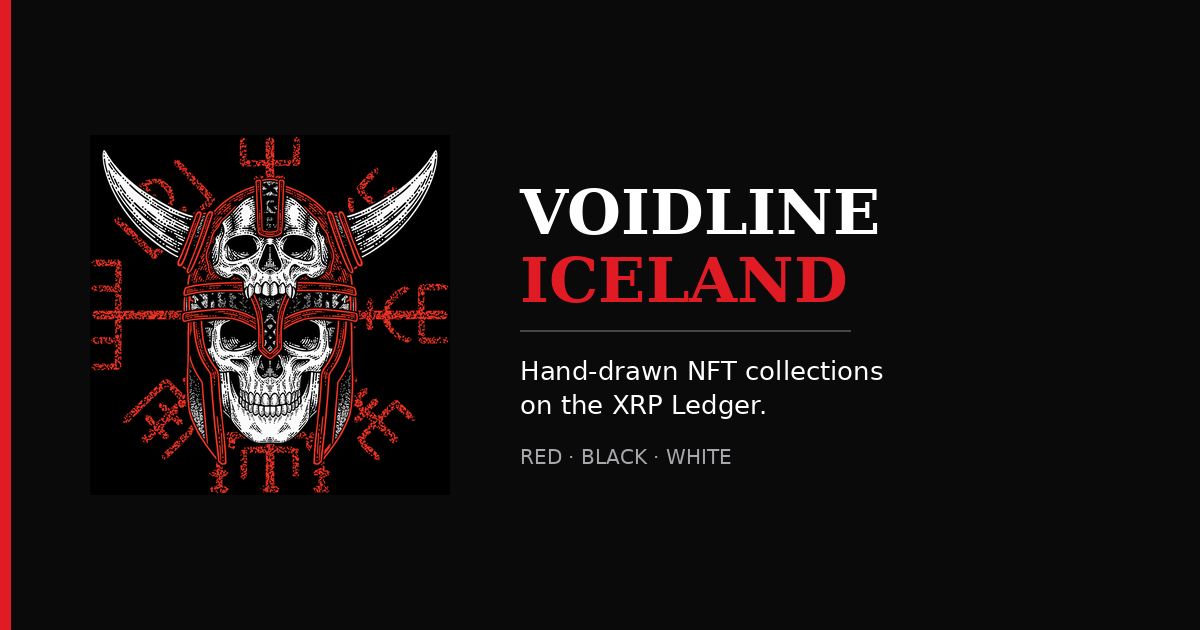
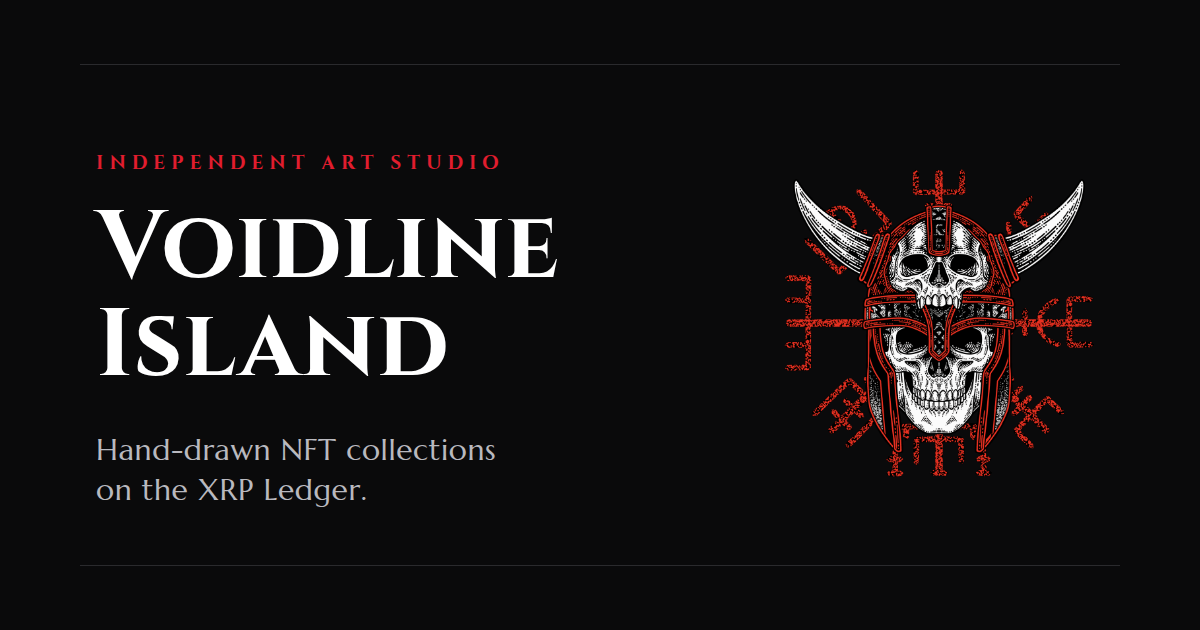
og: gambar pratinjau diperbarui — Iceland -> Island
public/og-image.png masih versi 25 Okt (sehari sebelum commit rename
54e34a0). Meta di index.html sudah benar, tetapi aplikasi chat membaca
piksel di dalam gambar — jadi pratinjau tetap menampilkan 'Iceland'.

- public/og-image.png dibuat ulang: 1200x630, latar #0a0a0b,
  kicker merah, judul Cinzel 700 ('Voidline Island'), sub Marcellus,
  logo GIF di kanan. Tidak ada lagi tulisan Iceland.
- scripts/buat-og.py: sumber yang bisa dijalankan ulang agar kartu ini
  tidak tertinggal lagi saat brand/teks berubah. Render headless Chrome,
  font diunduh ke ~/.fonts. Output deterministik (byte identik).

Catatan: cache pratinjau WhatsApp/Discord/Telegram perlu di-purge
terpisah; gambar baru terlihat setelah cache platform kedaluwarsa.

Changed region(s): [[0.0617, 0.2111, 0.925, 0.8143], [0.0, 0.0, 0.0308, 1.0], [0.555, 0.6937, 0.6167, 0.754]]

diff --git a/scripts/buat-og.py b/scripts/buat-og.py
@@ -1,0 +1,197 @@
+#!/usr/bin/env python3
+"""Buat public/og-image.png (1200×630) — kartu pratinjau tautan.
+
+Kenapa harus lewat skrip: judul dan deskripsi di pratinjau aplikasi chat
+(WhatsApp, Discord, Telegram) TIDAK diambil dari HTML React — mereka hanya
+membaca <meta> di index.html DAN piksel di dalam gambar ini. Saat brand
+berganti nama, gambar inilah yang paling mudah tertinggal versi lama.
+
+Alur: HTML kecil ditulis ke berkas sementara, dirender headless Chrome,
+lalu hasilnya ditulis ke public/og-image.png. Vite menyalinnya ke dist/.
+
+Pemakaian:
+    python3 scripts/buat-og.py
+
+Prasyarat:
+    - google-chrome (atau CHROME_PATH)
+    - koneksi internet sekali untuk mengunduh font Cinzel & Marcellus
+      (disimpan di ~/.fonts supaya render berikutnya tetap konsisten)
+
+Jangan mengedit og-image.png secara manual: jalankan skrip ini, lalu commit
+hasilnya. Isi teks ada di konstanta di bawah.
+"""
+
+from __future__ import annotations
+
+import os
+import shutil
+import subprocess
+import sys
+import tempfile
+import urllib.request
+from pathlib import Path
+
+# ── Isi kartu ────────────────────────────────────────────────────────────────
+KICKER = "INDEPENDENT ART STUDIO"
+JUDUL_BARIS_1 = "Voidline"
+JUDUL_BARIS_2 = "Island"
+SUB_BARIS_1 = "Hand-drawn NFT collections"
+SUB_BARIS_2 = "on the XRP Ledger."
+
+# ── Rupa ─────────────────────────────────────────────────────────────────────
+LATAR = "#0a0a0b"
+PUTIH = "#ffffff"
+ABU = "#b9b9bf"
+MERAH = "#e11d2e"
+GARIS = "#2a2a2d"
+
+LEBAR, TINGGI = 1200, 630
+
+AKAR = Path(__file__).resolve().parent.parent
+KELUARAN = AKAR / "public" / "og-image.png"
+LOGO = AKAR / "src" / "assets" / "Logo.gif"
+
+# Font diunduh sekali, lalu dipasang di fontconfig pengguna.
+FONT = {
+    "cinzel.ttf": "https://fonts.gstatic.com/s/cinzel/v26/8vIU7ww63mVu7gtR-kwKxNvkNOjw-jHgTYo.ttf",
+    "marcellus.ttf": "https://fonts.gstatic.com/s/marcellus/v14/wEO_EBrOk8hQLDvIAF8FUQ.ttf",
+}
+
+TEMPLATE = f"""<!doctype html>
+<html lang="en">
+<head>
+<meta charset="utf-8">
+<style>
+  * {{ margin:0; padding:0; box-sizing:border-box; }}
+  html, body {{ width:{LEBAR}px; height:{TINGGI}px; overflow:hidden; }}
+  body {{ background:{LATAR}; color:{PUTIH}; position:relative; }}
+  .garis {{ position:absolute; left:80px; right:80px; height:1px; background:{GARIS}; }}
+  .atas {{ top:64px; }}
+  .bawah {{ bottom:64px; }}
+  .kiri {{ position:absolute; left:96px; top:150px; }}
+  .kicker {{
+    font-family:'Cinzel', Georgia, serif; font-size:19px; letter-spacing:0.32em;
+    text-transform:uppercase; color:{MERAH}; margin-bottom:24px;
+  }}
+  .judul {{
+    font-family:'Cinzel', Georgia, serif; font-weight:700;
+    font-size:96px; line-height:1.02; letter-spacing:0.01em;
+  }}
+  .sub {{
+    margin-top:34px; font-family:'Marcellus', Georgia, serif;
+    font-size:30px; line-height:1.35; color:{ABU}; letter-spacing:0.02em;
+  }}
+  .kanan {{ position:absolute; right:96px; top:158px; width:330px; }}
+  .kanan img {{ width:100%; display:block; }}
+</style>
+</head>
+<body>
+  <div class="garis atas"></div>
+  <div class="garis bawah"></div>
+  <div class="kiri">
+    <div class="kicker">{KICKER}</div>
+    <div class="judul">{JUDUL_BARIS_1}<br>{JUDUL_BARIS_2}</div>
+    <div class="sub">{SUB_BARIS_1}<br>{SUB_BARIS_2}</div>
+  </div>
+  <div class="kanan"><img src="file://{LOGO}" alt=""></div>
+</body>
+</html>
+"""
+
+
+def chrome() -> str:
+    """Cari peramban headless yang tersedia."""
+    for nama in (
+        os.environ.get("CHROME_PATH"),
+        "google-chrome",
+        "google-chrome-stable",
+        "chromium",
+        "chromium-browser",
+    ):
+        if nama and shutil.which(nama):
+            return shutil.which(nama)
+    sys.exit("google-chrome tidak ditemukan. Pasang Chrome, atau set CHROME_PATH.")
+
+
+def pasang_font() -> None:
+    """Unduh font bila belum ada, lalu daftarkan ke fontconfig."""
+    tujuan = Path.home() / ".fonts"
+    tujuan.mkdir(parents=True, exist_ok=True)
+    baru = False
+
+    for nama, url in FONT.items():
+        berkas = tujuan / nama
+        if berkas.exists():
+            continue
+        print(f"mengunduh {nama} …")
+        try:
+            with urllib.request.urlopen(url, timeout=30) as r:
+                berkas.write_bytes(r.read())
+            baru = True
+        except OSError as e:
+            sys.exit(f"gagal mengunduh {nama}: {e}")
+
+    if baru and shutil.which("fc-cache"):
+        subprocess.run(["fc-cache", "-f", str(tujuan)], check=False)
+
+    if not shutil.which("fc-list"):
+        return
+
+    ada = subprocess.run(
+        ["fc-list"], capture_output=True, text=True, check=False
+    ).stdout.lower()
+    if "cinzel" not in ada or "marcellus" not in ada:
+        sys.exit(
+            "Font Cinzel/Marcellus tidak terbaca fontconfig. "
+            "Salin manual ke ~/.fonts lalu jalankan fc-cache -f."
+        )
+
+
+def render() -> None:
+    """Render HTML sementara → PNG tujuan."""
+    if not LOGO.exists():
+        sys.exit(f"logo tidak ditemukan: {LOGO}")
+
+    with tempfile.TemporaryDirectory() as tmp:
+        html = Path(tmp) / "og.html"
+        png = Path(tmp) / "og.png"
+        html.write_text(TEMPLATE, encoding="utf-8")
+
+        hasil = subprocess.run(
+            [
+                chrome(),
+                "--headless=new",
+                "--disable-gpu",
+                "--no-sandbox",
+                "--hide-scrollbars",
+                "--force-device-scale-factor=1",
+                f"--window-size={LEBAR},{TINGGI}",
+                f"--screenshot={png}",
+                "--virtual-time-budget=15000",  # beri waktu GIF termuat
+                f"file://{html}",
+            ],
+            capture_output=True,
+            text=True,
+        )
+        if not png.exists():
+            sys.exit(f"render gagal:\n{hasil.stderr[-800:]}")
+
+        KELUARAN.parent.mkdir(parents=True, exist_ok=True)
+        shutil.copyfile(png, KELUARAN)
+
+    # Sanity check: dimensi harus tepat.
+    try:
+        from PIL import Image  # type: ignore
+
+        with Image.open(KELUARAN) as im:
+            if im.size != (LEBAR, TINGGI):
+                sys.exit(f"dimensi salah: {im.size}, harus {(LEBAR, TINGGI)}")
+    except ImportError:
+        pass
+
+    print(f"ok: {KELUARAN.relative_to(AKAR)} ({KELUARAN.stat().st_size:,} byte)")
+
+
+if __name__ == "__main__":
+    pasang_font()
+    render()
